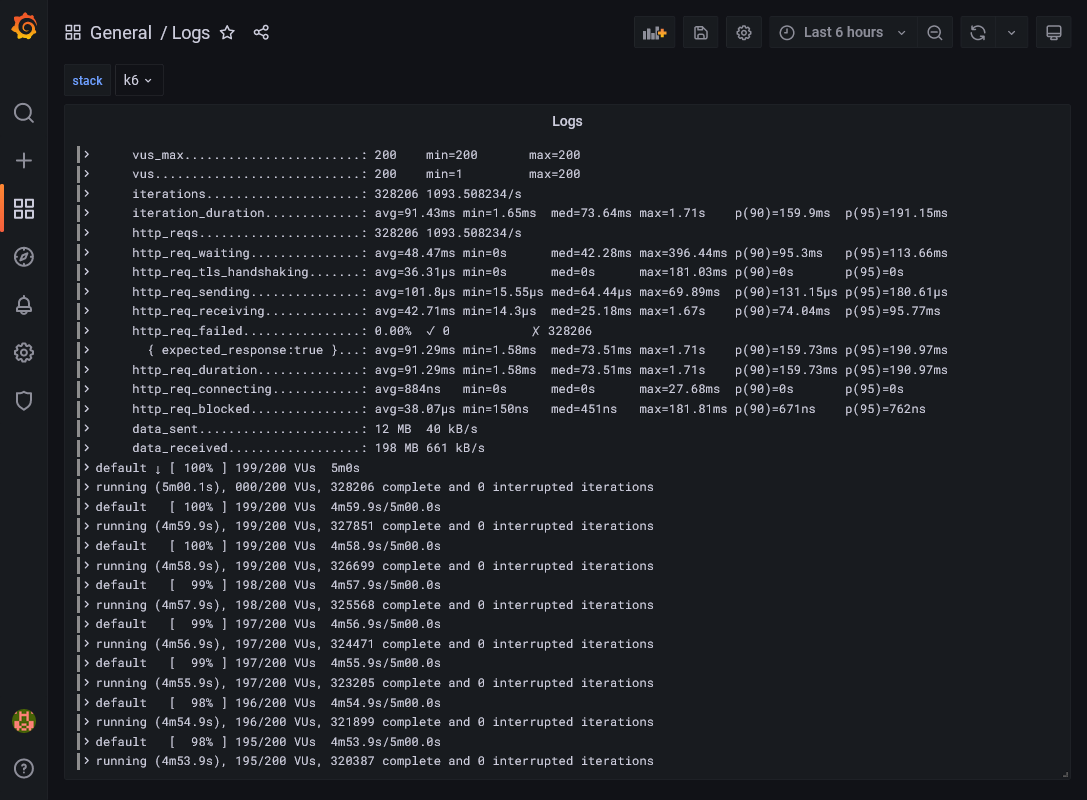
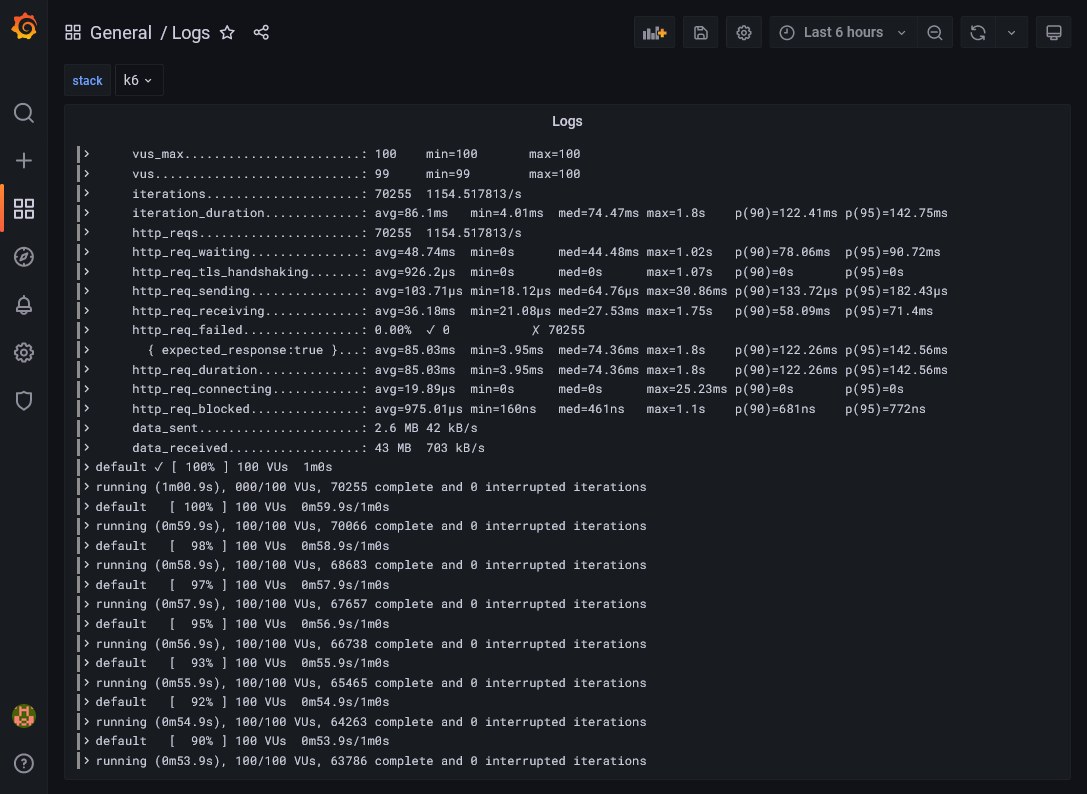
finish this

diff --git a/content/posts/08-build-your-own-docker-swarm-cluster-part-7/index.md b/content/posts/08-build-your-own-docker-swarm-cluster-part-7/index.md
@@ -772,6 +772,8 @@ Deploy the stack, and it should launch a load testing for 1 minute. In the end, 
 
 With Loki as the default log driver, we get only current logs of running tasks in Portainer, so when completed, the logs are wiped. You must go through Grafana in the *Logs* dashboard that we built on previous part in order to check the final raw results.
 
+[![Grafana k6 logs](grafana-k6-logs.png)](grafana-k6-logs.png)
+
 ### Visualization through Grafana
 
 It's now time to go back to Grafana and try to get some charts. First Add a new InfluxDB *Data source*. Set `http://influxdb_db:8086` inside *URL* field and `k6weather` in *Database* field, then *Save & test*.
@@ -831,11 +833,7 @@ Then use this script on above `k6` stack and be sure to comment `K6_VUS` and `K6
 
 [![Portainer k6 logs](portainer-k6-logs.png)](portainer-k6-logs.png)
 
-The final raw result will be available at Grafana logs :
-
-[![Grafana k6 logs](grafana-k6-logs.png)](grafana-k6-logs.png)
-
-Here the corresponding *Chart.js* result for the 1st minute :
+Check the raw and graph result in Grafana as previous scenario. Here the corresponding *Chart.js* result in my case for the 1st minute :
 
 {{< chart >}}
 type: 'line',

diff --git a/content/posts/02-build-your-own-docker-swarm-cluster/index.md b/content/posts/02-build-your-own-docker-swarm-cluster/index.md
@@ -90,6 +90,7 @@ This is an optional part, feel free to skip. We'll set up production grade monit
 * `Private docker registry` with minimal UI for all your custom app images that will be built on your development process and be used as based image for your production docker on cluster
 * `Drone CI` as self-hosted CI/CD solution
 * `SonarQube` as self-hosted quality code control
+* Get perfect load testing environment with `k6` + `InfluxDB` + `Grafana` combo
 
 Finally, we'll finish this guide by a simple mini-app development with above CI/CD integration !
 
